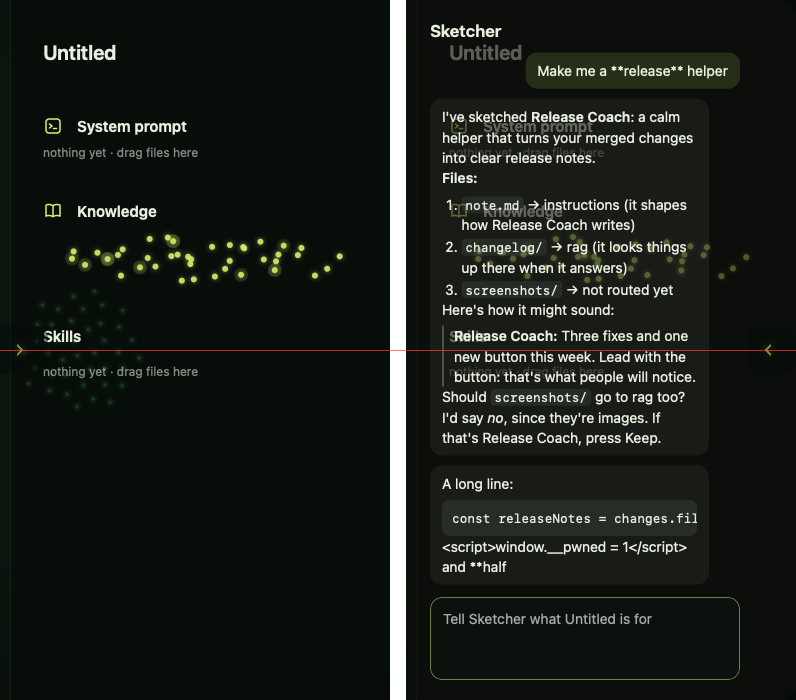
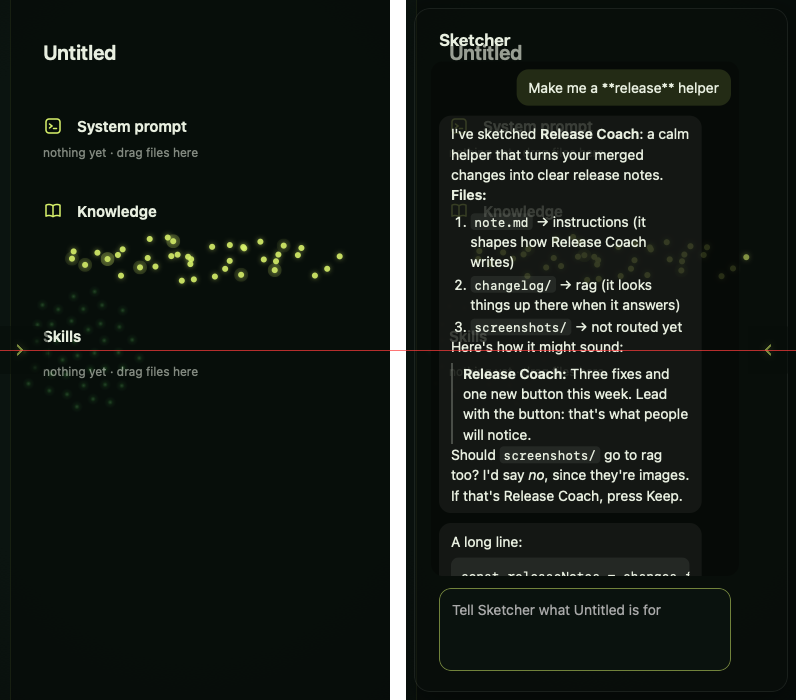
FLOATING-GLASS phase 1: browser check for the floating glass chat; darker message tint for AA
left-side-check: gap-aware arrow ride and narrow width; new step 11 (Chrome + WebKit, desktop + narrow):
solid field under html.glass, blur only on #sketcher, alpha < .6, gap, radii, shadow, see-through and
blur pixels, per-message WCAG contrast over a fully lit likeness. The check found 3.7:1 with the .55
log tint, so the tint is now .72 (worst 4.75:1). phase1-jony.md notes what changed and how it was checked.

Changed region(s): [[0.5427, 0.03, 0.9347, 0.9], [0.9045, 0.84, 0.9347, 0.87]]

diff --git a/src/server/public/new-agent.html b/src/server/public/new-agent.html
@@ -160,7 +160,7 @@
   /* Reading over the bright likeness: a darker tint behind the messages only (the frame and title stay glass),
      so text keeps AA contrast over a fully lit dot. */
   #sketcher-log { flex: 1; min-height: 0; overflow-y: auto; display: flex; flex-direction: column; gap: 10px;
-    margin: 0 -8px; padding: 8px; border-radius: 12px; background: rgba(6,9,6,.55); }
+    margin: 0 -8px; padding: 8px; border-radius: 12px; background: rgba(6,9,6,.72); }
   #sketcher-log > div { margin: 0; max-width: 90%; min-width: 0; box-sizing: border-box; padding: 8px 12px; border-radius: 12px; white-space: pre-wrap; overflow-wrap: anywhere; }
   #sketcher-log > .you { align-self: flex-end; background: rgba(216,242,106,.14); }
   #sketcher-log > .sketcher { align-self: flex-start; background: rgba(232,239,224,.06); }

diff --git a/updates/2026-11-28 FLOATING-GLASS - OPEN/phase1-jony.md b/updates/2026-11-28 FLOATING-GLASS - OPEN/phase1-jony.md
@@ -1,0 +1,41 @@
+# Phase 1 — left side solid again, glass only on the floating chat (Jony)
+
+## User goal
+Read Sketcher's words over the likeness, and still feel the likeness behind them. The field is the scene; the chat is the one window floating over it.
+
+## What changed
+**`src/server/public/new-agent.html`**
+- Removed the `html.glass` rule on /new and the old `html.glass #sketcher` .88 near-solid rule. `html` is solid `--field`, `body` keeps its solid radial gradient, in the browser and in the Mac app alike.
+- `#sketcher` floats: `left/top/bottom: 12px` (8px under 640px), `border-radius: 16px` on all corners, a 1px hairline `rgba(232,239,224,.08)`, shadow `0 12px 40px rgba(0,0,0,.45)`.
+- Glass: `rgba(12,14,10,.36)` + `backdrop-filter: blur(24px) saturate(1.3)` (and `-webkit-`), inside `@supports`; without support it falls back to `.92`. `prefers-reduced-transparency: reduce` gives `.94`.
+- Closed, it sits `translateX(calc(-100% - gap))` off-screen, so its right edge is at 0 and the arrow rides that edge.
+- Reading tint behind the messages only: `#sketcher-log` `rgba(6,9,6,.72)`, padding 8px, radius 12px, pulled out 8px each side. The title and frame stay glass. `.wait` is `rgba(232,239,224,.72)`.
+  - The tint was .55 in my first pass. The new contrast check measured **3.7:1** over a fully lit likeness, so I raised it to .72. The worst case is now **4.75:1** (a code block in a Sketcher reply).
+
+**`src/server/public/left-side.js`**: `gap()` reads the panel's CSS `left`. On narrow screens the width is `W − 2·gap`. Open, the arrow sits at `min(gap + width, W − tabW)`.
+
+**`src/server/app.test.mjs`**: /new is no longer in the html.glass test. A new test checks that /new has no `html.glass` rule, that `backdrop-filter` appears only on `#sketcher`, and that its alpha is under .6.
+
+**`checks/left-side-check.cjs`**
+- Step 6: the narrow panel is 374px (390 less 8px on each side).
+- Step 10: the ride formula and the open edge use `gap + width`.
+- New step 11 runs in Chrome and WebKit at 1200×820 and 390×700:
+  - With `html.glass` added, html stays opaque, the body keeps its solid gradient, and nothing but `#sketcher` has a backdrop-filter.
+  - The panel has a blur, its background alpha is under .6, it keeps a gap of 8px or more from the left, top and bottom, all four radii are 12px or more, and it has a shadow.
+  - Pixels: a hard-edged lime sheet goes behind the panel. It must show through (brighter), and in Chrome its edge must turn soft (62px).
+  - Contrast: the words are hidden, then the brightest pixel behind each message is measured against that message's own colour, the thinking line included. Each must be 4.5:1 or more.
+  - Use `GLASS_ONLY=<agent id>` to run step 11 alone. Screenshots go to `.tmp-test/floating-glass/` (gitignored).
+
+## Removed
+- `html.glass` on /new, so the field is no longer see-through.
+- The .88 near-solid rule.
+- Any glass on the field or the left side.
+- Nothing new was added to open or close the panel. A click in the gap does not close it: the arrow and Esc stay the only ways out.
+
+## Not touched
+`src-tauri/src/main.rs`. The app's `html.glass` class now does nothing on /new. `backdrop-filter` blurs page content in WKWebView, which is what we want here, so it needs no window change.
+
+## How it was checked
+- `npm test`: 384 pass, 0 fail.
+- `node checks/left-side-check.cjs http://localhost:3506 --home <scratch>` against `checks/mock-engine-server.mjs`: **ALL PASS** (steps 1–11, Chrome and WebKit).
+- One honest gap: Playwright's headless WebKit paints backdrop-filter's see-through but not its blur. So in WebKit the blur is checked through its computed style, not its pixels (the check prints an INFO line). Safari and the Mac app do blur. The user's glass check at the roadmap gate is the eye test for that.
